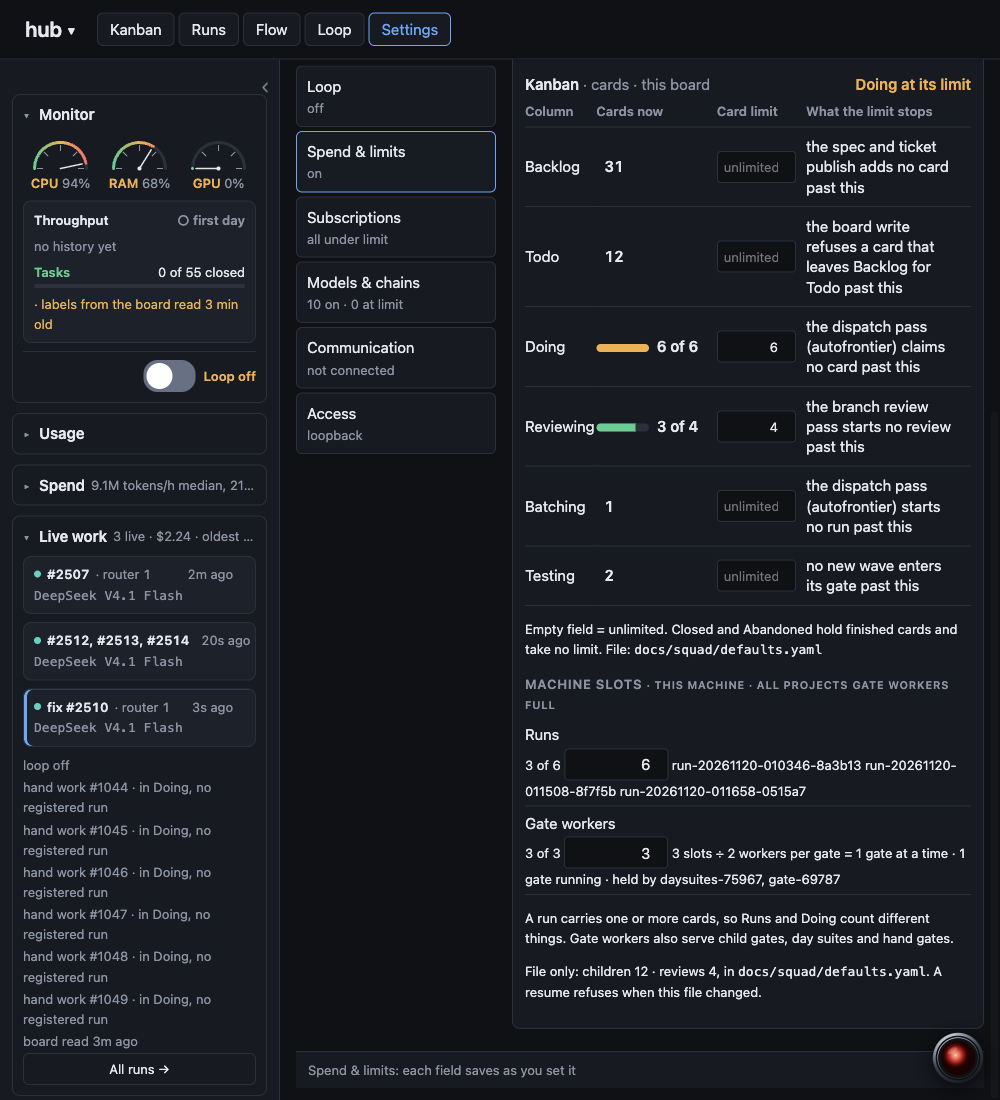
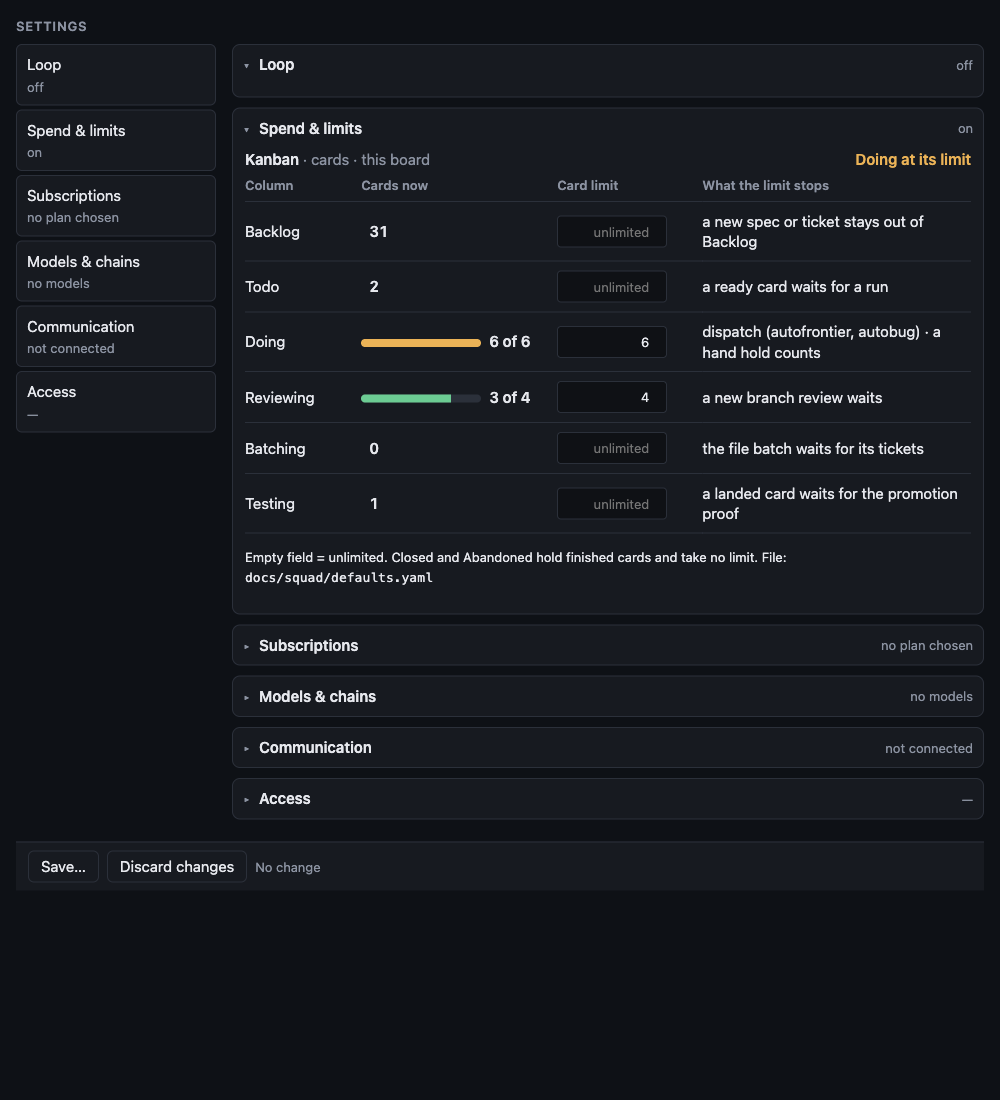
Keep the Kanban table's layout off the other Settings rows
Refs #2512

diff --git a/contrib/squad-goal/scripts/hub.py b/contrib/squad-goal/scripts/hub.py
@@ -7180,9 +7180,6 @@ header.top .pill{font-size:var(--fs-caption);color:var(--mute)}
 @media (max-width:1200px){#tab-set #lbody .now{gap:6px}#tab-set #lbody .tile .tv{font-size:var(--fs-body)}}
 @media (max-width:820px){#tab-set #lbody .now{grid-template-columns:repeat(2,minmax(0,1fr))}}
 @media (max-width:600px){#tab-set #lbody .now{grid-template-columns:1fr}}
-/* A narrow window leaves the Settings column too small for a label and its control side by side (#2512): the control
-   moves under its label, so no label wraps and no control lands on the text beside it. */
-@media (max-width:1100px){#tab-set .setrow{grid-template-columns:minmax(0,1fr);gap:2px}#tab-set .setrow .sc{justify-self:start;max-width:100%}}
 .mtab{width:100%;border-collapse:collapse;font-size:var(--fs-caption);margin-bottom:8px}.mtab th{text-align:left;color:var(--mute);font-weight:600;padding:4px 6px;border-bottom:1px solid var(--line)}.mtab td{padding:4px 6px;border-bottom:1px solid var(--line)}.mtab tr.off .mn{text-decoration:line-through;color:var(--mute)}
 .stc{display:inline-block;font-size:var(--fs-caption);border:1px solid var(--line);border-radius:var(--radius-sm);padding:0 5px;color:var(--mute)}.stc.off{color:var(--warn);border-color:var(--tint-warn-line)}.stc.lim{color:var(--err);border-color:var(--err)}.mr.off .mn{text-decoration:line-through}.mr.rmk .mn,.mr.rmk .pv{text-decoration:line-through;opacity:.55}
 .madd select{flex:1;min-width:0;height:var(--ctl-h);background:var(--bg);color:var(--fg);border:1px solid var(--line);border-radius:var(--radius-sm);font:inherit;font-size:var(--fs-caption)}#mbody .lead{margin:4px 0 8px}#mbody details.hlp{margin-top:10px}#mbody details.hlp summary{cursor:pointer;color:var(--acc)}
@@ -7662,6 +7659,9 @@ const kanDirty=()=>!!kanS&&!!kanDraft&&JSON.stringify(kanDraft)!==JSON.stringify
 const kanFull=()=>kanCols().filter(c=>c.max_cards!=null&&c.count>=c.max_cards).map(c=>c.name);
 const kanChip=()=>{const f=kanFull();return !f.length?(kanCols().some(c=>c.max_cards!=null)?"under its limit":"no limit"):f.length===1?`${f[0]} at its limit`:`${f.join(", ")} at their limit`};
 const kanPct=c=>c.max_cards?Math.max(0,Math.min(100,Math.round(100*c.count/c.max_cards))):0;
+const kanFile=()=>{const f=(kanS&&(kanS.file_label||kanS.file))||"";   // the footer names the project file by its repository path, derived from the payload's own path when no label rides along (#2512)
+ const p=String(f).split(String.fromCharCode(92)).join("/"),i=p.lastIndexOf("/docs/");
+ return i>=0?p.slice(i+1):p.startsWith("docs/")?p:p.slice(p.lastIndexOf("/")+1)};
 const kanBar=c=>`<span class=kbar role=img aria-label="${c.count} of ${c.max_cards}"><span class="kfill${c.count>=c.max_cards?" full":""}" style="width:${kanPct(c)}%"></span></span><b class=knum>${c.count} of ${c.max_cards}</b>`;   // a limited column shows its bar and N of M (#2512)
 const kanRow=c=>`<tr data-kanrow="${esc(c.name)}"><th scope=row class=kc>${esc(c.name)}</th><td class=kn>${c.max_cards==null?`<b class=knum>${c.count}</b>`:kanBar(c)}</td>`
  +`<td class=kl><input data-kan="${esc(c.name)}" type=number min=1 max=100 step=1 inputmode=numeric value="${c.max_cards==null?"":c.max_cards}" placeholder=unlimited aria-label="${esc(c.name)} card limit"${kanBad===c.name?" class=bad aria-invalid=true":""}></td>`
@@ -7689,7 +7689,7 @@ function kanHtml(){if(!kanS)return `<div class=setblk data-blk=kanban data-theme
  return `<div class=setblk data-blk=kanban data-theme=lim><h3 class="blkh khead"><span>Kanban <small class=ksub>· cards · this board</small></span> <small id=kanchip class=${kanFull().length?"err":"ok"}>${esc(kanChip())}</small></h3>`
   +`<table class=ktab><colgroup><col class=kcol1><col class=kcol2><col class=kcol3><col class=kcol4></colgroup><thead><tr><th scope=col>Column</th><th scope=col>Cards now</th><th scope=col>Card limit</th><th scope=col>What the limit stops</th></tr></thead><tbody>`
   +kanCols().map(kanRow).join("")+`</tbody></table>`
-  +`<p class=note>Empty field = unlimited. Closed and Abandoned hold finished cards and take no limit. File: <code>${esc(kanS.file_label||"docs/squad/defaults.yaml")}</code></p></div>`
+  +`<p class=note>Empty field = unlimited. Closed and Abandoned hold finished cards and take no limit. File: <code>${esc(kanFile())}</code></p></div>`
   +(kanMsg?`<div class="mx${kanMsg.startsWith("!")?" err":""}" role=status>${esc(kanMsg.replace(/^!/,""))}</div>`:"")
   +(kanLine()?`<div class=klok role=status>${kanLine()}</div>`:"")}
 // }KAN

diff --git a/tests/test_hub_board_column_limits.py b/tests/test_hub_board_column_limits.py
@@ -209,6 +209,36 @@ def test_the_kanban_group_is_the_table_the_spec_shows(hub):
     assert "/home/me/co" not in h, "the footer shows a home path"
 
 
+def test_the_visual_check_renders_ride_beside_the_test():
+    # The issue's acceptance criteria hold the two ego-browser renders and their README beside this test, so the proof
+    # of the layout travels with the change that makes it.
+    for rel in ("docs/evidence/2512/kanban-1440.png", "docs/evidence/2512/kanban-1000.png",
+                "docs/evidence/2512/README.md"):
+        path = ROOT / rel
+        assert path.is_file() and path.stat().st_size > 0, rel
+
+
+def test_the_footer_derives_the_repository_path_from_the_file(hub):
+    # An older columns payload carries no file_label: the footer names the file by the repository-relative suffix of
+    # its own path, never a hardcoded one and never the home path.
+    mod, _ = hub
+    got = _node(mod, "kanS={file:'/home/me/co/docs/squad/project.yaml',columns:[{name:'Doing',max_cards:6,count:1,stops:''}]};"
+                      "console.log(JSON.stringify({h:kanHtml()}))")
+    h = got["h"]
+    assert "docs/squad/project.yaml" in h, "the footer does not derive the repository path from the file"
+    assert "/home/me/co" not in h, "the footer shows a home path"
+    assert "docs/squad/defaults.yaml" not in h, "the footer names a hardcoded file the payload does not carry"
+
+
+def test_the_kanban_table_keeps_its_own_layout_and_the_settings_rows_stay_two_column(hub):
+    # Issue #2512 at 1000 px: the table aligns its own columns. The Settings rows keep the two-column layout main
+    # shipped down to the 600 px breakpoint, so the fix adds no rule that restacks every label and control.
+    mod, _ = hub
+    page = mod.PAGE
+    assert "max-width:1100px){#tab-set .setrow" not in page, "a rule restacks every Settings row at 1100 px"
+    assert re.search(r"#tab-set \.ktab tbody th\{[^}]*white-space:nowrap", page), "a table label wraps into its field"
+
+
 def test_an_empty_field_reads_unlimited_and_saves_as_none(hub):
     mod, _ = hub
     got = _node(mod, "kanS={file:'/p',columns:[{name:'Todo',max_cards:null,count:0,stops:'no pass reads it yet'}]};"

diff --git a/docs/evidence/2512/README.md b/docs/evidence/2512/README.md
@@ -9,14 +9,15 @@ the same process that takes the screenshot, so the emulation holds for the captu
 - `kanban-1440.png`: 1440 px. The group reads as the spec #2427 mockup: the four headers Column, Cards now, Card limit
   and What the limit stops; a bar and "N of M" on Doing and Reviewing; "Kanban · cards · this board" with the state at
   the right; the footer names `docs/squad/defaults.yaml`.
-- `kanban-1000.png`: 1000 px. The four columns stay aligned, no label wraps into its field, and no text overlaps. A
-  Settings row whose label and control cannot share the narrow column moves its control under the label.
+- `kanban-1000.png`: 1000 px. The four columns stay aligned, every label stays on one line, no text overlaps, and no
+  cell cuts its content. The group holds its own table layout there; no Settings row rule restacks the other rows.
 
-Measured in the page at 1000 px:
+Measured in the page, from the rendered boxes:
 
 ```
-innerWidth 1000   documentElement.scrollWidth 1000   # no sideways scroll
+1440 px  innerWidth 1440  scrollWidth 1440  table 878 px  field x 623  labels 1 line
+1000 px  innerWidth 1000  scrollWidth 1000  table 726 px  field x 557  labels 1 line
 ```
 
-There is no cell whose content is wider than its box, and the 2x close-up of the group shows each bar and its count on
-one line with the placeholder of an unlimited column fully drawn.
+At both widths there is no sideways scroll, no cell whose content is wider than its box, and no pair of cells that
+overlaps. Each bar and its count share one line, and an unlimited column draws its placeholder in full.
